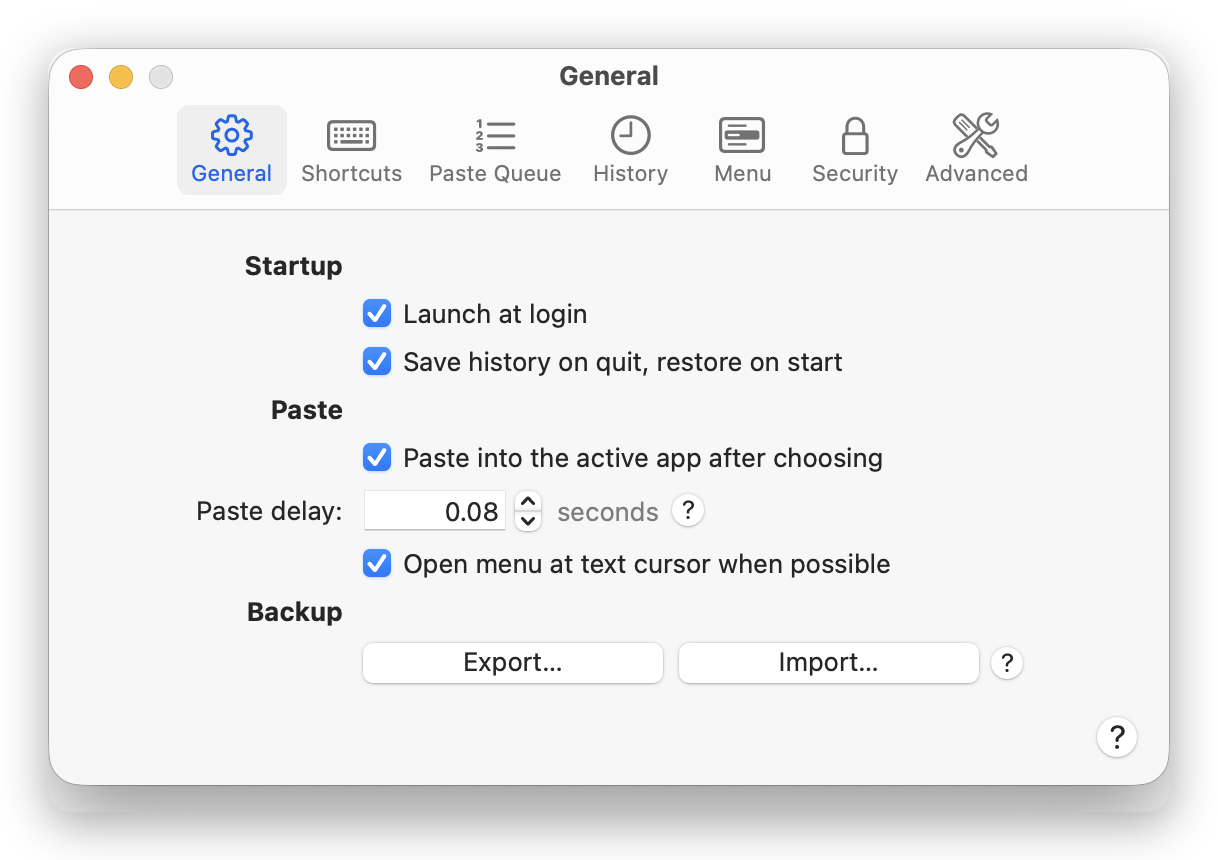
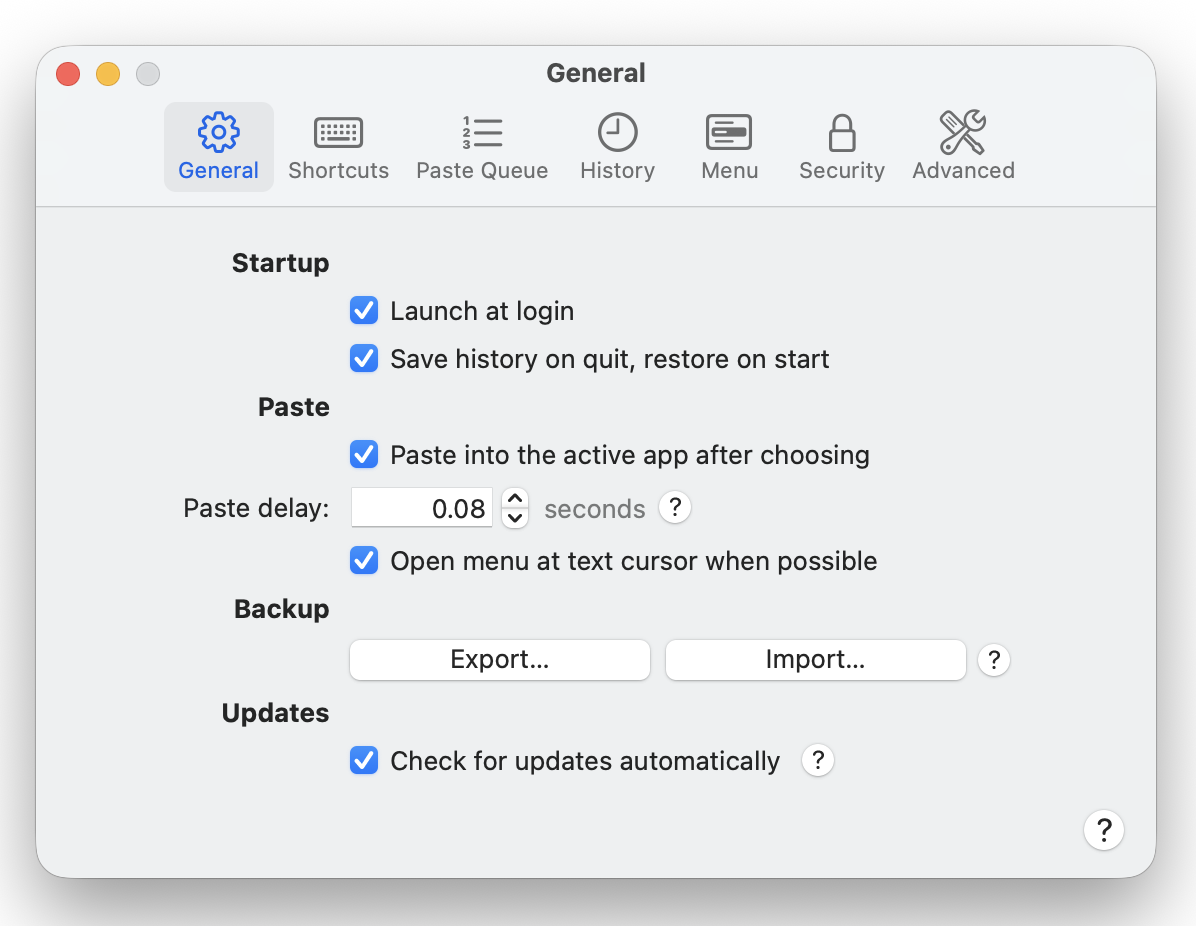
Guide: Settings → General screenshot retaken with the Updates group (2.12.0)
Claude-Session: https://claude.ai/code/session_018CvCqvTTYcjZs6rVg6ZZHt

diff --git a/docs/site/privacy.html b/docs/site/privacy.html
@@ -2,7 +2,7 @@
 <title>Keepit Privacy Policy</title><link rel="icon" href="img/icon.png"><link rel="apple-touch-icon" href="img/icon.png">
 <meta name="description" content="Keepit's privacy policy: the app collects, transmits and shares nothing; everything stays on your Mac.">
 <link rel="canonical" href="https://keep.it.com/privacy.html"><meta property="og:type" content="article"><meta property="og:site_name" content="Keepit"><meta property="og:title" content="Keepit Privacy Policy"><meta property="og:description" content="Keepit's privacy policy: the app collects, transmits and shares nothing; everything stays on your Mac."><meta property="og:image" content="https://keep.it.com/img/social-preview.png"><meta property="og:url" content="https://keep.it.com/privacy.html"><meta name="twitter:card" content="summary_large_image"><meta name="twitter:title" content="Keepit Privacy Policy"><meta name="twitter:description" content="Keepit's privacy policy: the app collects, transmits and shares nothing; everything stays on your Mac."><meta name="twitter:image" content="https://keep.it.com/img/social-preview.png"><meta name="theme-color" content="#fbfbfd" media="(prefers-color-scheme: light)"><meta name="theme-color" content="#0c0d14" media="(prefers-color-scheme: dark)">
-<script type="application/ld+json">{"@context": "https://schema.org", "@graph": [{"@type": "WebPage", "@id": "https://keep.it.com/privacy.html", "url": "https://keep.it.com/privacy.html", "name": "Privacy Policy — Keepit – Clipboard Manager", "headline": "Privacy Policy — Keepit – Clipboard Manager", "description": "Keepit's privacy policy: the app collects, transmits and shares nothing; everything stays on your Mac.", "inLanguage": "en", "isPartOf": {"@id": "https://keep.it.com/#site"}, "about": {"@id": "https://keep.it.com/#app"}, "author": {"@id": "https://keep.it.com/#org"}, "publisher": {"@id": "https://keep.it.com/#org"}, "image": "https://keep.it.com/img/social-preview.png", "dateModified": "2026-11-02"}, {"@type": "BreadcrumbList", "itemListElement": [{"@type": "ListItem", "position": 1, "name": "Keepit", "item": "https://keep.it.com/"}, {"@type": "ListItem", "position": 2, "name": "Privacy policy", "item": "https://keep.it.com/privacy.html"}]}]}</script>
+<script type="application/ld+json">{"@context": "https://schema.org", "@graph": [{"@type": "WebPage", "@id": "https://keep.it.com/privacy.html", "url": "https://keep.it.com/privacy.html", "name": "Privacy Policy — Keepit – Clipboard Manager", "headline": "Privacy Policy — Keepit – Clipboard Manager", "description": "Keepit's privacy policy: the app collects, transmits and shares nothing; everything stays on your Mac.", "inLanguage": "en", "isPartOf": {"@id": "https://keep.it.com/#site"}, "about": {"@id": "https://keep.it.com/#app"}, "author": {"@id": "https://keep.it.com/#org"}, "publisher": {"@id": "https://keep.it.com/#org"}, "image": "https://keep.it.com/img/social-preview.png", "dateModified": "2026-11-03"}, {"@type": "BreadcrumbList", "itemListElement": [{"@type": "ListItem", "position": 1, "name": "Keepit", "item": "https://keep.it.com/"}, {"@type": "ListItem", "position": 2, "name": "Privacy policy", "item": "https://keep.it.com/privacy.html"}]}]}</script>
 <style>
 :root{--paper:#fbfbfd;--ink:#0f1222;--ink-2:#4b4f63;--ink-3:#8a8ea3;--blue:#2f4fd1;--blue-deep:#1f3aa6;--blue-tint:#eef2ff;--line:#e3e5ef;--key:#fff;--key-edge:#cfd2de;--win:#fff;--sel:#2f5cf0}
 @media(prefers-color-scheme:dark){:root{--paper:#0c0d14;--ink:#f2f3f8;--ink-2:#b7bacb;--ink-3:#7c8097;--blue:#7d9bff;--blue-deep:#a9bdff;--blue-tint:#151b35;--line:#23263a;--key:#1b1e2e;--key-edge:#3a3e56;--win:#1a1c28;--sel:#3d6bff}}

diff --git a/docs/site/guide.html b/docs/site/guide.html
@@ -317,7 +317,7 @@ the empty line.</p>
 the Mac: pick a pane in the toolbar, and every change applies the moment you make it — there is no
 Save button; close the window with ⌘W or Esc. Every option with a <strong>?</strong> next to it has a popover
 that explains it.</p>
-<figure class="shot" style="max-width:609px"><a href="img/guide/prefs-general.png?v=cb3d7781" class="zoom" title="Open full size"><img src="img/guide/prefs-general.png?v=cb3d7781" alt="Settings → General" width="609" height="430" loading="lazy"></a><figcaption>Settings → General</figcaption></figure>
+<figure class="shot" style="max-width:598px"><a href="img/guide/prefs-general.png?v=a11ed208" class="zoom" title="Open full size"><img src="img/guide/prefs-general.png?v=a11ed208" alt="Settings → General" width="598" height="463" loading="lazy"></a><figcaption>Settings → General</figcaption></figure>
 <div class="tbl"><table>
 <thead>
 <tr>
